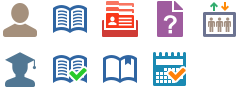
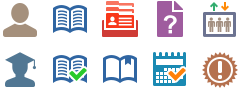
fix #18

Changed region(s): [[0.8458, 0.5778, 0.9917, 0.9778]]

diff --git a/app/assets/stylesheets/application.scss b/app/assets/stylesheets/application.scss
@@ -73,7 +73,8 @@ body {
       li.courses_check,
       li.select_course,
       li.courses,
-      li.teacher-surveys
+      li.teacher-surveys,
+      li.announcements
       {
         a:before {
           content:"";
@@ -118,6 +119,10 @@ body {
 
       li.teacher-surveys a:before{
         background:url(nav-icons/all.png) no-repeat -0px -50px;
+      }
+
+      li.announcements a:before{
+        background:url(nav-icons/all.png) no-repeat -200px -50px;
       }
 
     }

diff --git a/app/controllers/manage/announcements_controller.rb b/app/controllers/manage/announcements_controller.rb
@@ -1,0 +1,33 @@
+class Manage::AnnouncementsController < ApplicationController
+  before_filter :authenticate_user!
+  before_filter :pre_load
+
+  layout 'grid'
+
+  def pre_load
+    @announcement = Announcement.find(params[:id]) if params[:id]
+  end
+
+
+  def index
+    @announcements = Announcement.page params[:page]
+  end
+
+  def new
+    @announcement = Announcement.new
+  end
+
+  def create
+    @announcement = current_user.announcements.build(params[:announcement])
+    if @announcement.save      
+      return redirect_to :action => :index
+    end
+    render :action => :new
+  end
+
+  def show
+    @announcement.read_by_user(current_user)
+  end
+
+
+end

diff --git a/app/controllers/announcements_controller.rb b/app/controllers/announcements_controller.rb
@@ -6,21 +6,8 @@ class AnnouncementsController < ApplicationController
     @announcement = Announcement.find(params[:id]) if params[:id]
   end
 
-
   def index
     @announcements = Announcement.page params[:page]
-  end
-
-  def new
-    @announcement = Announcement.new
-  end
-
-  def create
-    @announcement = current_user.announcements.build(params[:announcement])
-    if @announcement.save      
-      return redirect_to :action => :index
-    end
-    render :action => :new
   end
 
   def show

diff --git a/config/simple_navbar_config.rb b/config/simple_navbar_config.rb
@@ -48,6 +48,10 @@ SimpleNavbar::Base.config do
     nav :select_course, :url => '/manage/select_course_intents' do
       controller :'manage/select_course_intents'
     end
+
+    nav :announcements, :url => '/manage/announcements' do
+      controller :'manage/announcements'
+    end
   end
 
   # ------------------

diff --git a/config/routes.rb b/config/routes.rb
@@ -250,6 +250,10 @@ Eshare::Application.routes.draw do
       resources :survey_results, :shallow => true
     end
 
+    resources :announcements, :shallow => true do
+      
+    end
+
     namespace :aj do
       resources :courses, :shallow => true do
         resources :chapters, :shallow => true
